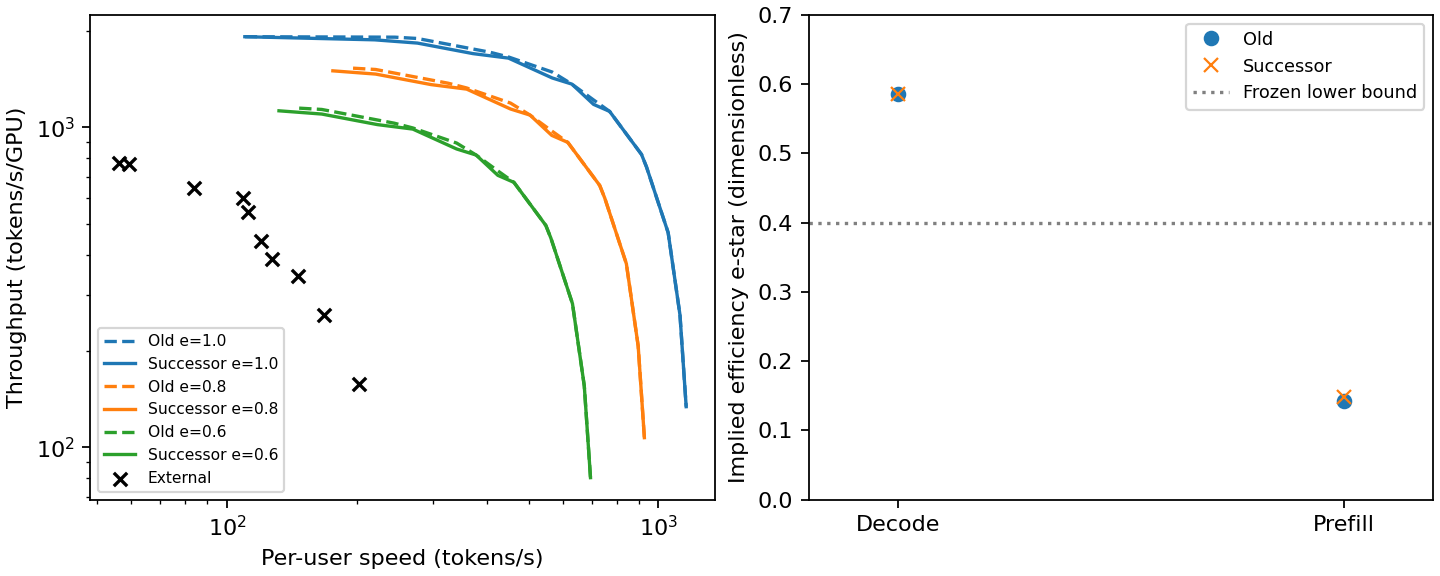
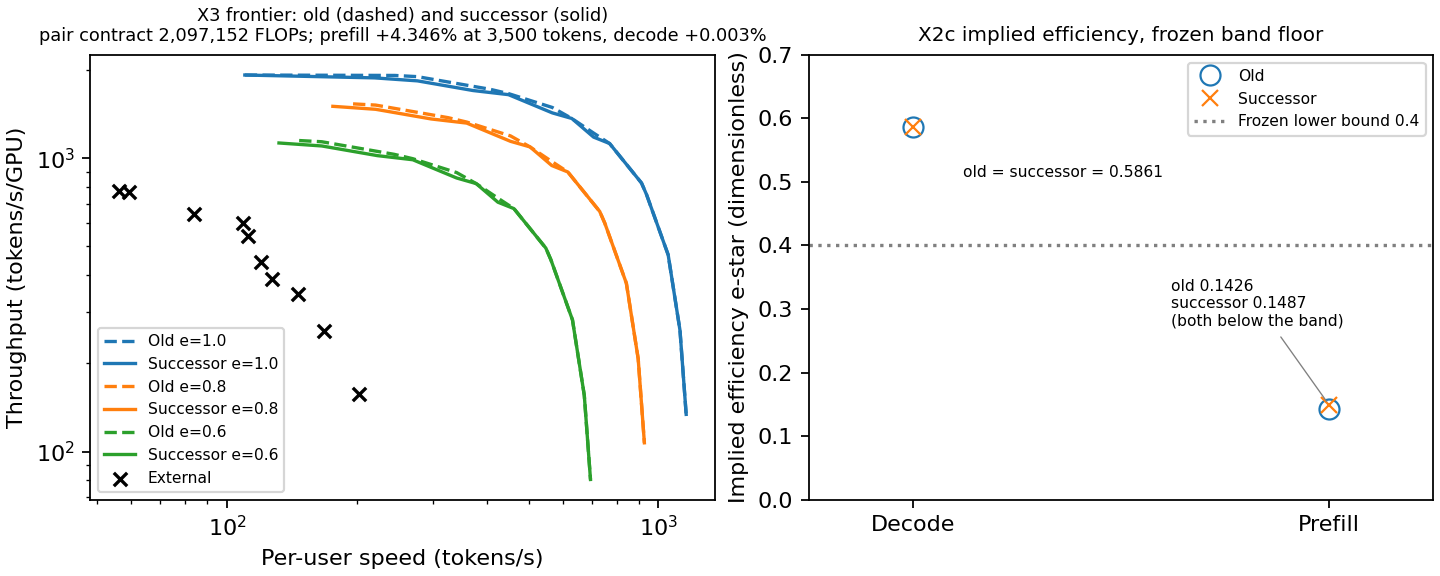
Label the successor e-star values and title the frontier panels in the attention pair figure

diff --git a/examples/frontier_comparison_v2/run_study.py b/examples/frontier_comparison_v2/run_study.py
@@ -456,17 +456,45 @@ def plot(result: dict, output: Path) -> None:
         yscale="log",
     )
     axes[0].legend(fontsize=7)
-    for label, key, marker in [("Old", "old_x2", "o"), ("Successor", "x2", "x")]:
+    axes[0].set_title(
+        "X3 frontier: old (dashed) and successor (solid)\n"
+        "pair contract 2,097,152 FLOPs; prefill +4.346% at 3,500 tokens, decode +0.003%",
+        fontsize=8,
+    )
+    e_star = {}
+    for label, key, marker, size in [("Old", "old_x2", "o", 9), ("Successor", "x2", "x", 7)]:
+        values = [result[key][f"{p}_e_star"]["decimal"] for p in ("decode", "prefill")]
+        e_star[label] = values
         axes[1].plot(
             ["Decode", "Prefill"],
-            [result[key][f"{p}_e_star"]["decimal"] for p in ("decode", "prefill")],
+            values,
             marker,
+            markersize=size,
+            markerfacecolor="none" if marker == "o" else None,
             label=label,
         )
-    axes[1].axhline(0.4, color="gray", linestyle=":", label="Frozen lower bound")
+    axes[1].axhline(0.4, color="gray", linestyle=":", label="Frozen lower bound 0.4")
+    axes[1].annotate(
+        f"old = successor = {e_star['Old'][0]:.4f}",
+        xy=(0, e_star["Old"][0]),
+        xytext=(0.12, e_star["Old"][0] - 0.06),
+        fontsize=7,
+        ha="left",
+        va="top",
+    )
+    axes[1].annotate(
+        f"old {e_star['Old'][1]:.4f}\nsuccessor {e_star['Successor'][1]:.4f}\n(both below the band)",
+        xy=(1, e_star["Successor"][1]),
+        xytext=(0.62, e_star["Successor"][1] + 0.12),
+        fontsize=7,
+        ha="left",
+        va="bottom",
+        arrowprops={"arrowstyle": "-", "color": "gray", "lw": 0.6},
+    )
     axes[1].set(ylabel="Implied efficiency e-star (dimensionless)", ylim=(0, 0.7))
-    axes[1].legend(fontsize=8, loc="upper right")
-    axes[1].margins(x=0.2)
+    axes[1].set_title("X2c implied efficiency, frozen band floor", fontsize=9)
+    axes[1].legend(fontsize=7, loc="upper right")
+    axes[1].margins(x=0.25)
     output.mkdir(parents=True, exist_ok=True)
     for ext in ("png", "pdf"):
         fig.savefig(
